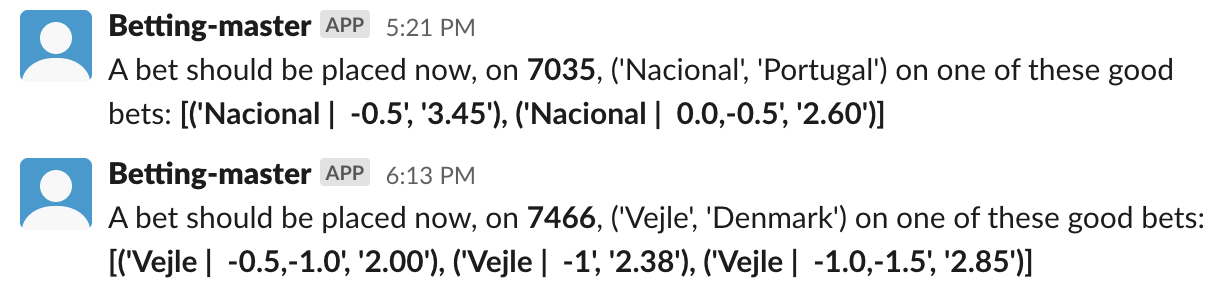
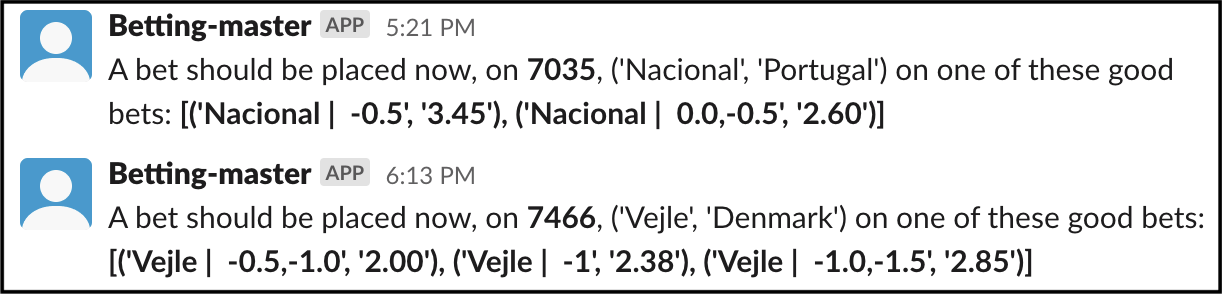
mini update

Changed region(s): [[0.0, 0.0, 1.0, 1.0]]

diff --git a/README.md b/README.md
@@ -6,7 +6,7 @@ Have this program observe all live football matches and notify you and your frie
 
 ### Slack notification example
 
-![preview](./readme_assets/preview.png)
+<img src="./readme_assets/preview.png" alt="drawing" width="500"/>
 
 <hr>
 
